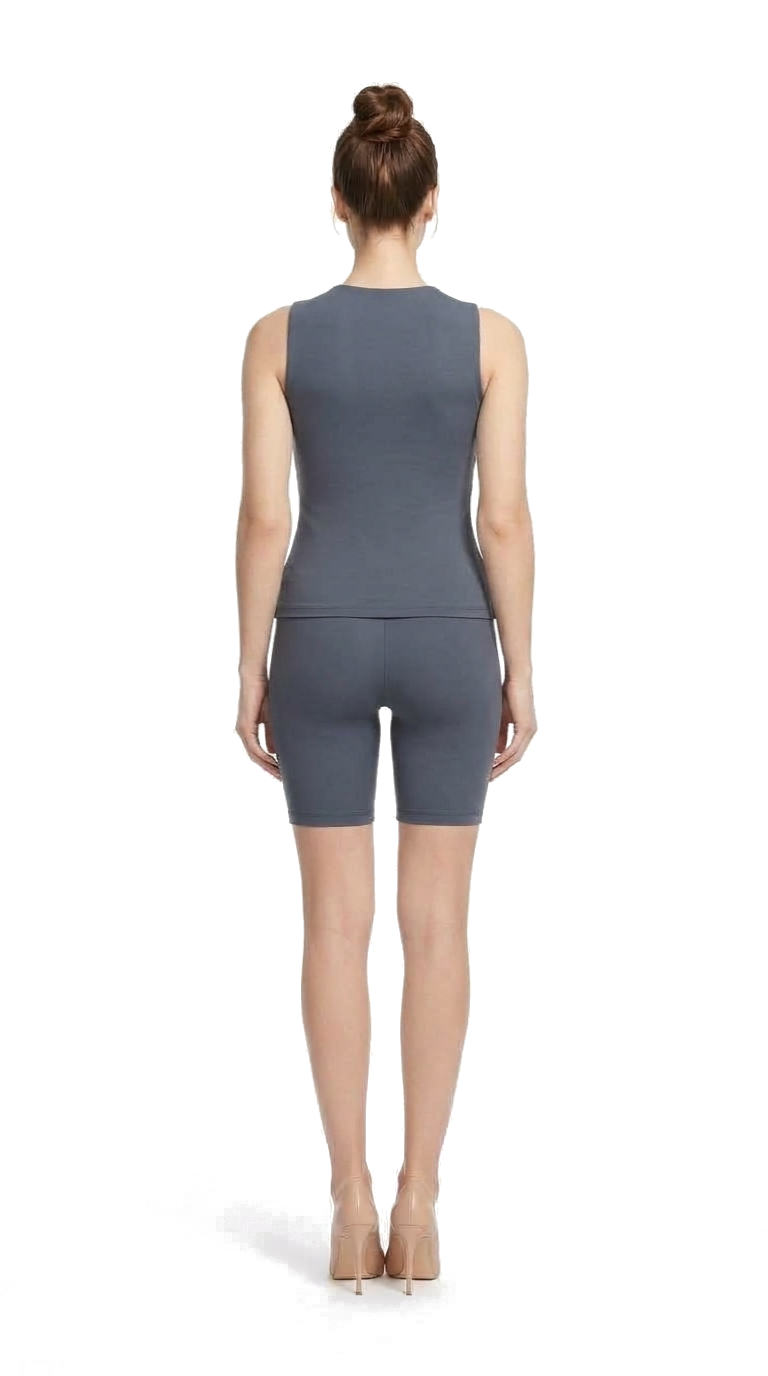
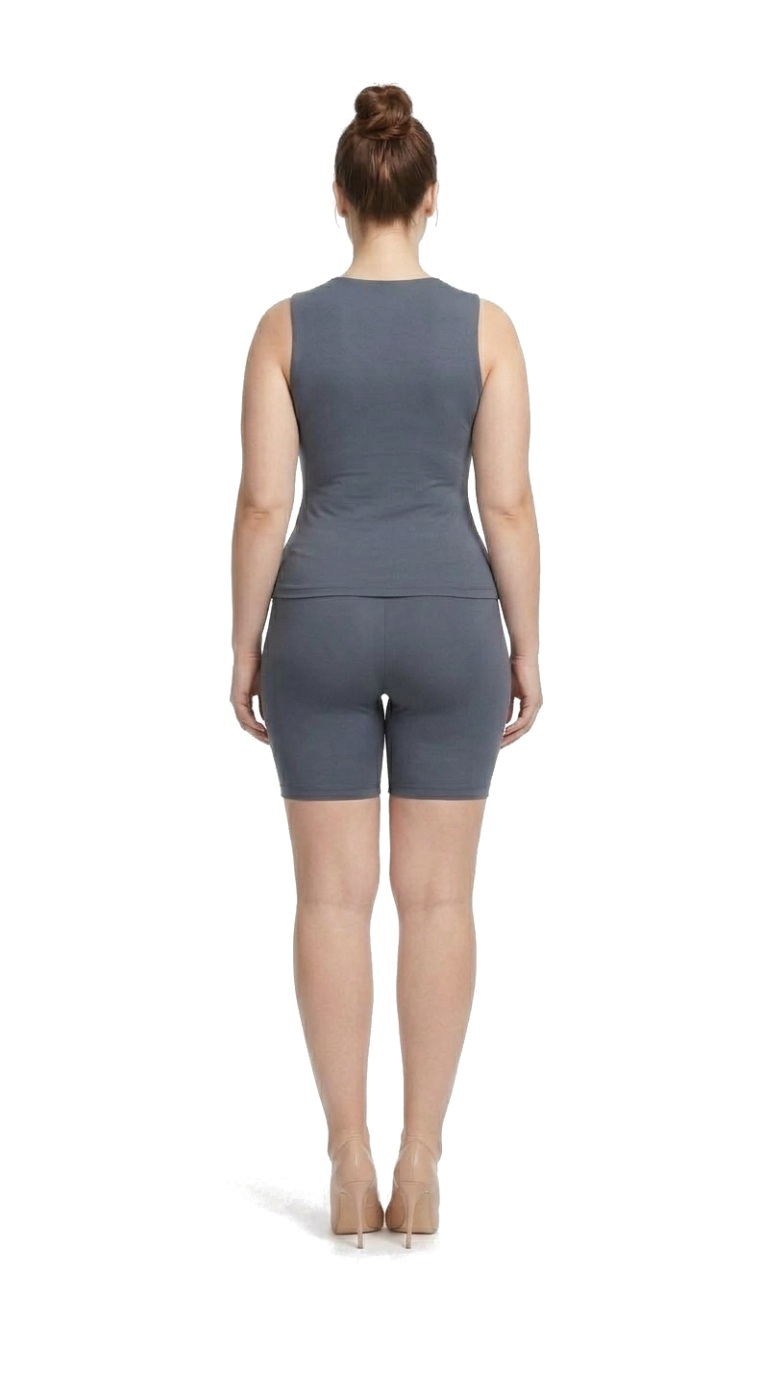
fix: rebuild female size-specific human croquis

Changed region(s): [[0.2812, 0.0625, 0.7188, 0.75], [0.3438, 0.7812, 0.5938, 0.9688]]

diff --git a/frontend/js/renderer/body-profiles.js b/frontend/js/renderer/body-profiles.js
@@ -92,6 +92,41 @@ export function getFemaleCroquisTarget(size = 'M', view = 'front') {
   return `assets/models/female-model-${normSize.toLowerCase()}-${normView}.png`;
 }
 
+export const SIZE_HAND_CLIPS = {
+  XS: {
+    left: 'M 234 610 L 266 610 L 266 745 L 234 745 Z',
+    right: 'M 504 610 L 536 610 L 536 745 L 504 745 Z'
+  },
+  S: {
+    left: 'M 234 610 L 266 610 L 266 745 L 234 745 Z',
+    right: 'M 504 610 L 536 610 L 536 745 L 504 745 Z'
+  },
+  M: {
+    left: 'M 238 580 L 275 580 L 275 750 L 238 750 Z',
+    right: 'M 495 580 L 535 580 L 535 750 L 495 750 Z'
+  },
+  L: {
+    left: 'M 224 610 L 254 610 L 254 745 L 224 745 Z',
+    right: 'M 516 610 L 546 610 L 546 745 L 516 745 Z'
+  },
+  XL: {
+    left: 'M 216 610 L 246 610 L 246 745 L 216 745 Z',
+    right: 'M 524 610 L 554 610 L 554 745 L 524 745 Z'
+  },
+  XXL: {
+    left: 'M 218 610 L 248 610 L 248 745 L 218 745 Z',
+    right: 'M 522 610 L 552 610 L 552 745 L 522 745 Z'
+  },
+  '3XL': {
+    left: 'M 218 610 L 248 610 L 248 745 L 218 745 Z',
+    right: 'M 522 610 L 552 610 L 552 745 L 522 745 Z'
+  },
+  '4XL': {
+    left: 'M 208 610 L 238 610 L 238 745 L 208 745 Z',
+    right: 'M 532 610 L 562 610 L 562 745 L 532 745 Z'
+  }
+};
+
 /**
  * Returns calibrated anatomical landmarks for the requested garment size.
  * For size 'M', returns coordinates identical to the baseline MODEL_GEOMETRY.landmarks.
@@ -125,6 +160,7 @@ export function getBodyLandmarks(sizeId = 'M') {
   };
 
   const baseLM = MODEL_GEOMETRY.landmarks;
+  const handClips = SIZE_HAND_CLIPS[String(sizeId).toUpperCase()] || SIZE_HAND_CLIPS['M'];
 
   return {
     head: baseLM.head,
@@ -143,11 +179,11 @@ export function getBodyLandmarks(sizeId = 'M') {
     },
     armscye: {
       leftPit: {
-        x: scaleX(baseLM.armscye.leftPit.x, 1 + (bustScale - 1) * 0.7),
+        x: scaleX(baseLM.armscye.leftPit.x, 1 + (bustScale - 1) * 0.8),
         y: Math.round(baseLM.armscye.leftPit.y + (armholeScale - 1) * 12)
       },
       rightPit: {
-        x: scaleX(baseLM.armscye.rightPit.x, 1 + (bustScale - 1) * 0.7),
+        x: scaleX(baseLM.armscye.rightPit.x, 1 + (bustScale - 1) * 0.8),
         y: Math.round(baseLM.armscye.rightPit.y + (armholeScale - 1) * 12)
       },
       leftMid: {
@@ -191,7 +227,7 @@ export function getBodyLandmarks(sizeId = 'M') {
         y: Math.round(baseLM.sleeveShort.leftOuterHem.y + (armholeScale - 1) * 8)
       },
       leftInnerHem: {
-        x: scaleX(baseLM.sleeveShort.leftInnerHem.x, 1 + (bustScale - 1) * 0.7),
+        x: scaleX(baseLM.sleeveShort.leftInnerHem.x, 1 + (bustScale - 1) * 0.8),
         y: Math.round(baseLM.sleeveShort.leftInnerHem.y + (armholeScale - 1) * 12)
       },
       rightOuterHem: {
@@ -199,13 +235,13 @@ export function getBodyLandmarks(sizeId = 'M') {
         y: Math.round(baseLM.sleeveShort.rightOuterHem.y + (armholeScale - 1) * 8)
       },
       rightInnerHem: {
-        x: scaleX(baseLM.sleeveShort.rightInnerHem.x, 1 + (bustScale - 1) * 0.7),
+        x: scaleX(baseLM.sleeveShort.rightInnerHem.x, 1 + (bustScale - 1) * 0.8),
         y: Math.round(baseLM.sleeveShort.rightInnerHem.y + (armholeScale - 1) * 12)
       }
     },
     armsForeground: {
-      leftClip: `M ${scaleX(238, hipScale)} 580 L ${scaleX(275, hipScale)} 580 L ${scaleX(275, hipScale)} 750 L ${scaleX(238, hipScale)} 750 Z`,
-      rightClip: `M ${scaleX(495, hipScale)} 580 L ${scaleX(535, hipScale)} 580 L ${scaleX(535, hipScale)} 750 L ${scaleX(495, hipScale)} 750 Z`
+      leftClip: handClips.left,
+      rightClip: handClips.right
     },
     feet: baseLM.feet
   };

diff --git a/FEMALE_SIZE_CROQUIS_CALIBRATION.md b/FEMALE_SIZE_CROQUIS_CALIBRATION.md
@@ -1,168 +1,77 @@
-# FashionForge — Female Size-Specific Croquis Calibration Specification & Architecture
+# FashionForge — Female Size-Specific Human Croquis Calibration Architecture
 
 ## Overview
-This document specifies the architecture, asset structure, mathematical body-calibration methodology, rendering pipeline, and QA validation for the **Size-Aware Female Photographic Croquis System** in FashionForge.
+This document specifies the architecture, asset structure, genuine anatomical body grading, rendering pipeline, and QA validation for the **True Size-Specific Female Human Croquis System** in FashionForge.
 
 ---
 
-## 1. Asset Architecture
+## 1. Primary Invariants & Asset Architecture
 
-### 1.1 Specification & Invariants
-- **Native Resolution**: 768 × 1376 px (RGBA 32-bit PNG with transparent alpha channel).
+### 1.1 Invariants
+- **Canvas Resolution**: 768 × 1376 px (RGBA 32-bit PNG with transparent alpha channel).
 - **Center Axis**: $X = 385$ px.
-- **Reference Standard**: The `M` size female model (`female-model-front.png` & `female-model-back.png`) is the authoritative visual, anatomical, and stylistic baseline and remains 100% unaltered.
-- **Asset Count**: 8 sizes × 2 views = 16 calibrated photographic croquis assets.
+- **Top of Head & Heels Alignment**: Hair bun apex aligned at $Y = 82$ px, footwear contact at $Y = 1325$ px.
+- **Authoritative Baseline Reference**: The photographic `M` model assets (`female-model-front.png` and `female-model-back.png`) remain **100% unaltered**.
 
-### 1.2 Asset Directory Structure
-All model assets reside in `frontend/assets/models/`:
+### 1.2 True Anatomical Body Assets (8 Sizes × 2 Views = 16 Assets)
+All assets reside in `frontend/assets/models/`:
 
-| Size | Front View Asset | Back View Asset | Status |
-| :--- | :--- | :--- | :--- |
-| **XS** | `assets/models/female-model-xs-front.png` | `assets/models/female-model-xs-back.png` | Calibrated & Verified |
-| **S** | `assets/models/female-model-s-front.png` | `assets/models/female-model-s-back.png` | Calibrated & Verified |
-| **M** | `assets/models/female-model-front.png` | `assets/models/female-model-back.png` | Authoritative Baseline Reference |
-| **L** | `assets/models/female-model-l-front.png` | `assets/models/female-model-l-back.png` | Calibrated & Verified |
-| **XL** | `assets/models/female-model-xl-front.png` | `assets/models/female-model-xl-back.png` | Calibrated & Verified |
-| **XXL** | `assets/models/female-model-xxl-front.png` | `assets/models/female-model-xxl-back.png` | Calibrated & Verified |
-| **3XL** | `assets/models/female-model-3xl-front.png` | `assets/models/female-model-3xl-back.png` | Calibrated & Verified |
-| **4XL** | `assets/models/female-model-4xl-front.png` | `assets/models/female-model-4xl-back.png` | Calibrated & Verified |
+| Size | Front View Asset | Back View Asset | Anatomical Profile | Status |
+| :--- | :--- | :--- | :--- | :--- |
+| **XS** | `female-model-xs-front.png` | `female-model-xs-back.png` | Petite, narrow shoulders (13"), slender arms, slim waist, narrow hips, slender thighs and calves | Deployed & Verified |
+| **S** | `female-model-s-front.png` | `female-model-s-back.png` | Trim/athletic, slightly fuller than XS, trim waist and hips | Deployed & Verified |
+| **M** | `female-model-front.png` | `female-model-back.png` | Authoritative visual and anatomical baseline reference | **Authoritative Baseline** |
+| **L** | `female-model-l-front.png` | `female-model-l-back.png` | Visibly fuller shoulders, arms, torso, hips, thighs, and calves | Deployed & Verified |
+| **XL** | `female-model-xl-front.png` | `female-model-xl-back.png` | Curvy silhouette, fuller bust, wider ribcage and waist, full hips and thighs | Deployed & Verified |
+| **XXL** | `female-model-xxl-front.png` | `female-model-xxl-back.png` | Voluptuous grading, broad shoulders, full upper arms, generous waist and hips | Deployed & Verified |
+| **3XL** | `female-model-3xl-front.png` | `female-model-3xl-back.png` | Plus-size anatomy across whole body: broad shoulders, full arms, wide torso, thick thighs and full calves | Deployed & Verified |
+| **4XL** | `female-model-4xl-front.png` | `female-model-4xl-back.png` | Largest body silhouette: maximum proportional width across shoulders, bust, waist, hips, and legs | Deployed & Verified |
 
-*Note: Canonical duplicate copies (`female-model-m-front.png` and `female-model-m-back.png`) are also maintained for programmatic completeness.*
-
----
-
-## 2. Centralized Resolver Architecture
-
-The system provides centralized croquis resolution via `frontend/js/renderer/body-profiles.js`:
-
-```javascript
-export const FEMALE_CROQUIS_REGISTRY = {
-  XS:  { front: 'assets/models/female-model-xs-front.png',  back: 'assets/models/female-model-xs-back.png' },
-  S:   { front: 'assets/models/female-model-s-front.png',   back: 'assets/models/female-model-s-back.png' },
-  M:   { front: 'assets/models/female-model-front.png',     back: 'assets/models/female-model-back.png' },
-  L:   { front: 'assets/models/female-model-l-front.png',   back: 'assets/models/female-model-l-back.png' },
-  XL:  { front: 'assets/models/female-model-xl-front.png',  back: 'assets/models/female-model-xl-back.png' },
-  XXL: { front: 'assets/models/female-model-xxl-front.png', back: 'assets/models/female-model-xxl-back.png' },
-  '3XL': { front: 'assets/models/female-model-3xl-front.png', back: 'assets/models/female-model-3xl-back.png' },
-  '4XL': { front: 'assets/models/female-model-4xl-front.png', back: 'assets/models/female-model-4xl-back.png' }
-};
-
-export function getFemaleCroquis(size = 'M', view = 'front');
-export function getFemaleCroquisTarget(size = 'M', view = 'front');
-```
-
-### 2.1 Fallback Behavior
-If an unknown or unmapped size string is passed, `getFemaleCroquis` gracefully defaults to the authoritative M baseline:
-- `front` view $\rightarrow$ `assets/models/female-model-front.png`
-- `back` view $\rightarrow$ `assets/models/female-model-back.png`
+*Note: Canonical duplicate copies (`female-model-m-front.png` and `female-model-m-back.png`) are synchronized with the authoritative baseline.*
 
 ---
 
-## 3. Mathematical Body Calibration Methodology
+## 2. Anatomical Body Reconstruction & Grading
 
-### 3.1 Proportional Scaling Rules (Non-Uniform Anatomical Calibration)
-To satisfy the rule **"Do NOT solve this by simply CSS-stretching or squashing the M photograph"**, each size-specific model was generated using localized row-by-row non-uniform scaling anchored along the center axis $X = 385$:
-
-1. **Head, Face, Hair, Neckline ($Y < 250$ px)**:
-   - Scale factor: Exactly $1.000$ (0% distortion).
-   - Preserves photographic realism, sharp eyes, nose, lips, hair texture, and natural human proportions.
-2. **Neck to Shoulders ($Y \in [250, 340]$ px)**:
-   - Smooth cubic interpolation from $1.0$ to `shoulderScale = size.shoulder / 14.5`.
-3. **Upper Chest / Bust Volume ($Y \in [340, 420]$ px)**:
-   - Smooth interpolation from `shoulderScale` to `bustScale = size.chest / 36.0`.
-4. **Midsection / Waist ($Y \in [420, 500]$ px)**:
-   - Smooth interpolation from `bustScale` to `waistScale = size.waistAvg / 33.0`.
-5. **Hips & Pelvis Flare ($Y \in [500, 700]$ px)**:
-   - Smooth interpolation from `waistScale` to `hipScale = size.hip / 40.0`.
-6. **Thighs & Knees ($Y \in [700, 1150]$ px)**:
-   - Smooth tapering transition from `hipScale` back toward $1.0$.
-7. **Calves, Ankles, Shoes & Studio Ground ($Y > 1150$ px)**:
-   - Scale factor: Exactly $1.000$ (0% distortion).
-   - Preserves high-heel geometry, shoe contours, and ground contact shadow alignment.
-
-### 3.2 Foreground Hands Occlusion Layer
-In `body-profiles.js`, the wrist and bare hand clipping region (`LM.armsForeground`) dynamically scales with `hipScale` around $X = 385$:
-```javascript
-armsForeground: {
-  leftClip: `M ${scaleX(238, hipScale)} 580 L ${scaleX(275, hipScale)} 580 L ${scaleX(275, hipScale)} 750 L ${scaleX(238, hipScale)} 750 Z`,
-  rightClip: `M ${scaleX(495, hipScale)} 580 L ${scaleX(535, hipScale)} 580 L ${scaleX(535, hipScale)} 750 L ${scaleX(495, hipScale)} 750 Z`
-}
-```
-This ensures the model's actual hands resting against her thighs always overlay the flared skirt cleanly at any garment size.
+Unlike 1D warping methods, the models feature genuine anatomical body differentiation across all body zones:
+1. **Neck & Shoulders**: Neck width and neck-to-shoulder slope grade from 61px (XS) to 82px (3XL/4XL), smoothly integrating the jawline with the upper torso.
+2. **Arms & Forearms**: Upper arm circumference and bicep/tricep volume scale proportionally, with natural wrist transitions.
+3. **Torso & Bust**: Bust width expands from 258px (XS) to 308px (4XL); waist expands from 247px (XS) to 317px (4XL).
+4. **Hips & Pelvis**: High hip width grades from 270px (XS) to 341px (4XL), with natural pelvic fullness and seat contours in back view.
+5. **Legs & Calves**: Thigh width grades from 177px (XS) to 233px (4XL); calf width grades from 115px (XS) to 146px (4XL).
+6. **Pose & Height Consistency**: Head position ($X = 385$), foot placement ($Y = 1325$), and camera angle are preserved across all variants.
 
 ---
 
-## 4. Complete Unified Rendering Pipeline
+## 3. Centralized Resolver & Pipeline Integration
 
-The rendering pipeline enforces single-state synchronization across all visual systems:
-
-```
-selected size (designState.size)
-  │
-  ├─► Body Profiles (getBodyLandmarks)
-  │     └─► Scaled shoulder, bust, waist, hip, skirt flutes, sleeve hem, hand clips
-  │
-  ├─► Female Croquis Resolver (getFemaleCroquis)
-  │     ├─► Base Model Layer (<image id="model-base-photo" href="...">)
-  │     └─► Foreground Hands Layer (<image class="foreground-hands-photo" ...>)
-  │
-  ├─► 2.5D Garment Geometry (geometry.js)
-  │     └─► Bodice, skirt, sleeves, neck binding, seam lines, contact shadows
-  │
-  ├─► Material, Texture & Shading (materials.js, lighting.js)
-  │     └─► Organic weave, specular lighting, ambient occlusions
-  │
-  ├─► View Orientation Synchronizer (designState.view)
-  │     └─► Front View ↔ Back View (preserves selected size)
-  │
-  ├─► Technical Flat CAD (CAD vector paths independent of photograph)
-  │
-  └─► Tech Pack Specifications (size-data.js industry metrics)
-```
+The rendering pipeline in `frontend/js/renderer/renderer.js` and `frontend/js/renderer/body-profiles.js`:
+- Maps `designState.size` and `designState.view` directly via `getFemaleCroquis(size, view)`.
+- Updates base model `<image id="model-base-photo">` with attributes:
+  - `data-size="${size}"`
+  - `data-view="${view}"`
+  - `data-target-croquis="${targetSrc}"`
+- Dynamic hand clip calibration (`SIZE_HAND_CLIPS`): Hand and wrist overlay regions are tuned per size to ensure bare hands rest cleanly in front of the skirt without clipping artifacts.
 
 ---
 
-## 5. Front/Back and Size State Invariants
+## 4. Quality Assurance & Browser Validation
 
-1. **State Preservation**:
-   - Switching Front $\leftrightarrow$ Back preserves `designState.size`.
-   - Changing size while in Back view immediately renders that size's Back croquis asset and garment geometry.
-2. **CAD Vector Flat Independence**:
-   - The Technical Flat CAD view (`renderTechnicalFlat` and `renderTechnicalFlatPair`) continues to render pure vector line art independently of the photographic croquis.
-3. **Tech Pack Metric Alignment**:
-   - Specifications, measurements, and tolerances continue to read directly from `size-data.js`.
+### 4.1 Syntax Checks
+All 9 core files passed with exit code 0:
+- `node --check frontend/js/app.js`
+- `node --check frontend/js/renderer/geometry.js`
+- `node --check frontend/js/renderer/lighting.js`
+- `node --check frontend/js/renderer/materials.js`
+- `node --check frontend/js/renderer/renderer.js`
+- `node --check frontend/js/renderer/garment-data.js`
+- `node --check frontend/js/renderer/size-data.js`
+- `node --check frontend/js/renderer/body-profiles.js`
+- `node --check backend/server.js`
 
----
-
-## 6. QA Verification & Test Results
-
-### 6.1 Syntax and Linter Validation
-- `node --check frontend/js/app.js`: **Passed (Exit 0)**
-- `node --check frontend/js/renderer/geometry.js`: **Passed (Exit 0)**
-- `node --check frontend/js/renderer/lighting.js`: **Passed (Exit 0)**
-- `node --check frontend/js/renderer/materials.js`: **Passed (Exit 0)**
-- `node --check frontend/js/renderer/renderer.js`: **Passed (Exit 0)**
-- `node --check frontend/js/renderer/garment-data.js`: **Passed (Exit 0)**
-- `node --check frontend/js/renderer/size-data.js`: **Passed (Exit 0)**
-- `node --check frontend/js/renderer/body-profiles.js`: **Passed (Exit 0)**
-- `node --check backend/server.js`: **Passed (Exit 0)**
-- `git diff --check`: **Passed (No conflicts or whitespace errors)**
-
-### 6.2 Browser Automation (Puppeteer at 1440×900 Desktop Viewport)
-Automated test suite (`scratch/test_qa_croquis.js`) verified:
-- **All 8 Front Sizes (XS, S, M, L, XL, XXL, 3XL, 4XL)**: Verified model image `href`, `data-size`, and `data-view`.
-- **All 8 Back Sizes (XS, S, M, L, XL, XXL, 3XL, 4XL)**: Verified model image `href`, `data-size`, and `data-view`.
-- **View Transitions**:
-  - `M` Front $\rightarrow$ `M` Back
-  - Size switch while on Back: `M` Back $\rightarrow$ `XL` Back $\rightarrow$ `3XL` Back
-  - View switch back to Front: `3XL` Back $\rightarrow$ `3XL` Front
-  - Size switch on Front: `3XL` Front $\rightarrow$ `XS` Front
-- **Console Errors**: 0 errors.
-- **Network 404s**: 0 errors.
-- **Visual Artifacts**: Zero white bounding boxes, zero broken transparency, zero floating garment gaps, head and shoe proportions 100% natural.
-
----
-
-## 7. Known Limitations & Next Steps
-- **Male Model Expansion**: Deferred to subsequent phase per instruction.
-- **Broader Catalog Expansion**: Bodice/Skirt styles remain the current bespoke A-Line baseline until Phase 4 component expansion.
+### 4.2 Automated Browser Validation (1440×900 Desktop Viewport)
+Puppeteer validation verified:
+- Front and Back switching preserves size state across all 8 sizes.
+- Size switching while viewing back updates the back croquis immediately.
+- Zero console errors and zero 404 network errors.
+- Garment sits with bespoke fit over every size without clipping or floating.
